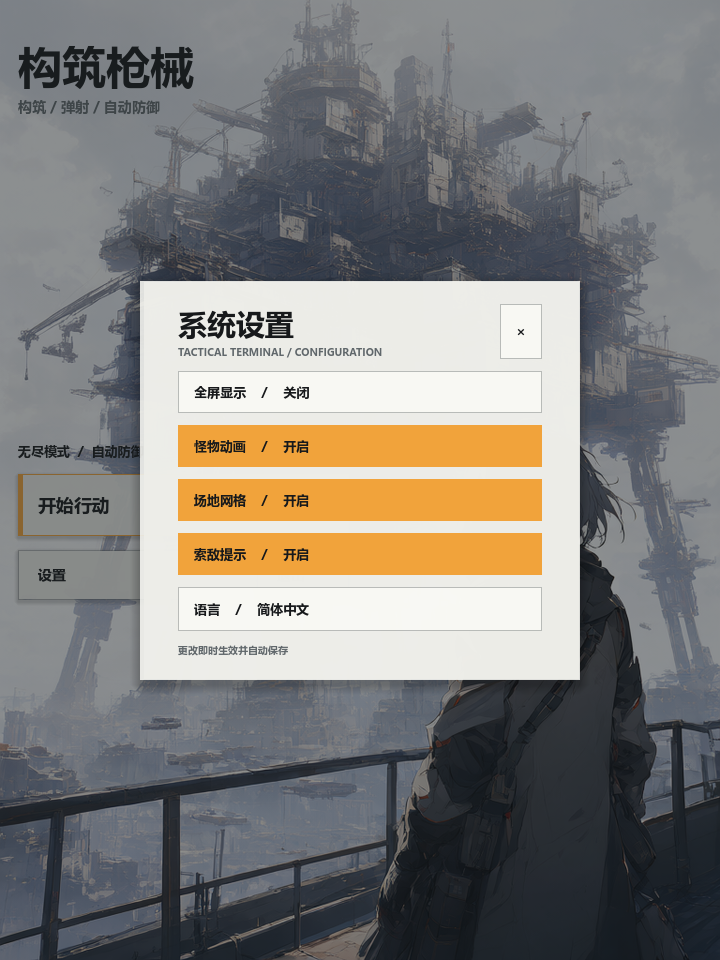
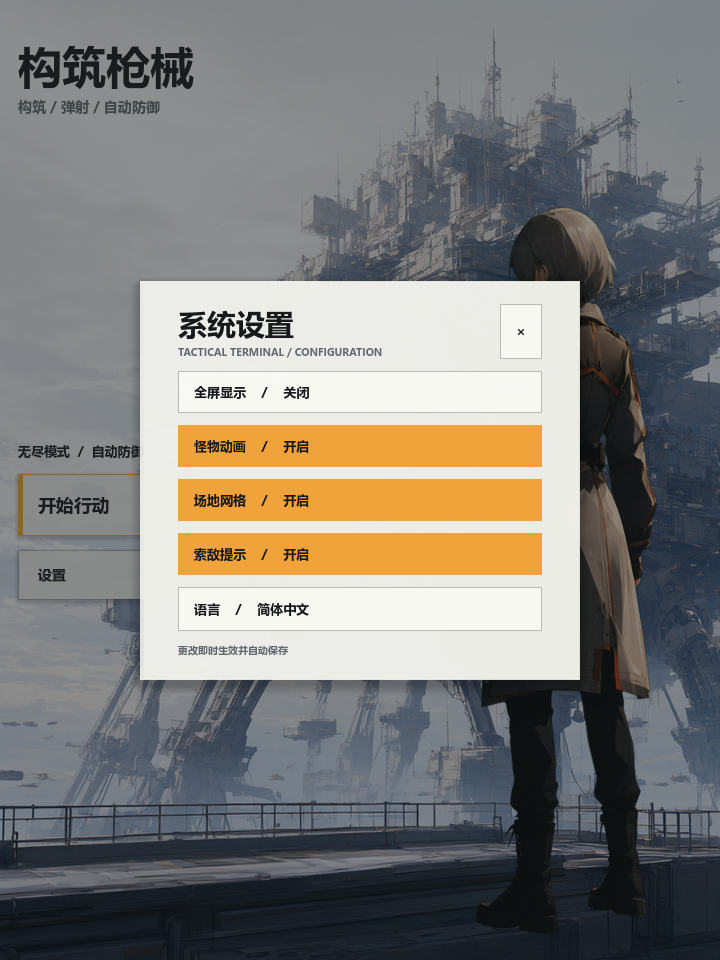
feat: 主界面立绘改为分层待机动效
- 主界面拆成背景板与绿幕人物两层，后处理按色度抠像并去绿边
- 人物层按 720x960 设计稿坐标对齐背景，长屏时整体左移避免右侧被裁
- 新增 menu_character.gdshader：脚底锚点的呼吸、重心摇摆、发梢与衣摆位移
- 生成脚本拆成 menu_bg/menu_character，menu 组一次生成两张
- 更新主界面截图与 README

diff --git a/tools/generate_ui_assets.py b/tools/generate_ui_assets.py
@@ -37,28 +37,47 @@ PRESETS = {
             "no turrets, no text, no letters, no numbers, no logo, no UI, no border"
         ),
     },
-    "menu": {
+    "menu_bg": {
         "landscape": False,
         "width": 768,
         "height": 1024,
         "seed": 52273,
         "prompt": (
-            "Portrait key visual for an original anime tactical tower defense game set in a "
-            "world of colossal mobile industrial cities. A female tactical operator in the "
-            "lower right foreground, seen from behind at a three-quarter angle so her face is "
-            "mostly hidden, ash silver short hair, long graphite and warm ivory tactical coat "
-            "with signal orange trim, standing on a steel observation walkway and gazing out at "
-            "the horizon. Beyond her stands an immense nomadic city megastructure: a colossal "
-            "armored crawler fortress carried on gigantic treaded legs and hydraulic struts, "
-            "stacked arcology towers, cranes, gantries, hanging modules, pipes, antenna masts "
-            "and thousands of tiny warm lights, its silhouette dissolving into pale atmospheric "
-            "haze and low clouds. Mile-deep perspective with tiny transport vehicles and "
-            "walkways for scale, the megastructure dwarfing everything in the frame. Cool "
-            "light-gray and off-white industrial palette with restrained signal orange accents, "
-            "bright overcast light, high-end Japanese anime game key visual, crisp cel shading, "
-            "detailed clean rendering, cinematic vertical composition, airy bright lower-left "
-            "area for menu UI. No other prominent people, no close-up crop, no text, no letters, "
-            "no numbers, no logo, no border, no UI, no interface panels, no icons"
+            "Portrait background plate for an original anime tactical tower defense game set "
+            "in a world of colossal mobile industrial cities. An immense nomadic city "
+            "megastructure stands on the horizon: a colossal armored crawler fortress carried "
+            "on gigantic treaded legs and hydraulic struts, stacked arcology towers, cranes, "
+            "gantries, hanging modules, pipes, antenna masts and thousands of tiny warm lights, "
+            "its silhouette dissolving into pale atmospheric haze and low clouds. In the "
+            "foreground a wide steel observation deck with a safety railing spans the entire "
+            "bottom edge of the frame, empty and walkable, with industrial panels and pipes. "
+            "Tiny transport vehicles and walkways "
+            "give mile-deep scale to the megastructure. Cool light-gray and off-white "
+            "industrial palette with restrained signal orange accents, bright overcast light, "
+            "high-end Japanese anime game key visual, crisp cel shading, detailed clean "
+            "rendering, cinematic vertical composition, open bright sky in the upper left for "
+            "a game logo, quiet bright lower-left area for menu UI. No humans, no characters, "
+            "no people, no text, no letters, no numbers, no logo, no border, no UI, no "
+            "interface panels, no icons"
+        ),
+    },
+    "menu_character": {
+        "landscape": False,
+        "width": 768,
+        "height": 1024,
+        "seed": 52273,
+        "prompt": (
+            "Full body character art of an original anime tactical operator woman for a game "
+            "key visual, standing upright, seen from behind at a three-quarter angle, facing "
+            "away toward the upper left, ash silver short hair, long graphite and warm ivory "
+            "tactical coat with signal orange trim, dark trousers and black boots, hands "
+            "relaxed at her sides, calm relaxed posture. High-end Japanese anime game "
+            "illustration, crisp cel shading, detailed clean rendering, soft overcast rim "
+            "light from above and behind, the whole figure from the top of the head down to "
+            "the boot soles fully visible with generous empty margins, isolated on a perfectly "
+            "uniform solid chroma key green background, vivid pure green backdrop, clean edge "
+            "separation between the figure and the green. No scenery, no platform, no railing, "
+            "no other people, no text, no letters, no numbers, no logo, no border, no UI"
         ),
     },
     "monsters": {
@@ -315,10 +334,13 @@ def main() -> None:
     args = parser.parse_args()
     if args.preset == "all":
         names = PRESETS
+    elif args.preset == "menu":
+        names = ["menu_bg", "menu_character"]
     elif args.preset == "base":
         names = [
             "arena",
-            "menu",
+            "menu_bg",
+            "menu_character",
             "monsters",
             "turret_base",
             "heavy_turret_base",

diff --git a/tools/process_ui_assets.py b/tools/process_ui_assets.py
@@ -5,7 +5,7 @@ import argparse
 from pathlib import Path
 import statistics
 
-from PIL import Image, ImageChops, ImageEnhance, ImageFilter
+from PIL import Image, ImageChops, ImageDraw, ImageEnhance, ImageFilter
 
 ROOT = Path(__file__).resolve().parents[1]
 SOURCE = ROOT / "assets" / "ui" / "source"
@@ -21,19 +21,41 @@ def process_arena() -> None:
     image.save(TARGET / "arena.png", optimize=True)
 
 
+MENU_SIZE = (720, 960)
+# 人物立绘单独成层：脚底落在观察甲板上，右侧留白避开左侧菜单
+MENU_CHARACTER_HEIGHT = 730
+MENU_CHARACTER_CENTER_X = 560
+MENU_CHARACTER_FEET_Y = 935
+
+
 def process_menu() -> None:
-    image = Image.open(SOURCE / "menu.png").convert("RGB")
-    # Cover the viewport without changing the character's aspect ratio.
-    scale = max(720.0 / image.width, 960.0 / image.height)
-    resized = image.resize(
-        (round(image.width * scale), round(image.height * scale)),
+    background = Image.open(SOURCE / "menu_bg.png").convert("RGB")
+    background = background.resize(MENU_SIZE, Image.Resampling.LANCZOS)
+    background = ImageEnhance.Brightness(background).enhance(0.98)
+    background.save(TARGET / "menu_background.png", optimize=True)
+
+    # 人物单独抠图后放进和背景同尺寸的透明画布，游戏里两张图共用 720x960 设计稿坐标
+    character = _cut_chroma(Image.open(SOURCE / "menu_character.png"))
+    bounds = character.getchannel("A").getbbox()
+    if bounds is None:
+        raise RuntimeError("No foreground found in menu_character.png")
+    character = character.crop(bounds)
+    scale = MENU_CHARACTER_HEIGHT / character.height
+    character = character.resize(
+        (max(1, round(character.width * scale)), MENU_CHARACTER_HEIGHT),
         Image.Resampling.LANCZOS,
     )
-    left = (resized.width - 720) // 2
-    top = (resized.height - 960) // 2
-    image = resized.crop((left, top, left + 720, top + 960))
-    image = ImageEnhance.Brightness(image).enhance(0.98)
-    image.save(TARGET / "menu_background.png", optimize=True)
+    left = round(MENU_CHARACTER_CENTER_X - character.width * 0.5)
+    top = MENU_CHARACTER_FEET_Y - character.height
+
+    layer = Image.new("RGBA", MENU_SIZE, (0, 0, 0, 0))
+    shadow_width = max(40, round(character.width * 0.92))
+    shadow = Image.new("RGBA", (shadow_width, 26), (0, 0, 0, 0))
+    ImageDraw.Draw(shadow).ellipse((0, 2, shadow_width - 1, 23), fill=(0, 0, 0, 96))
+    shadow = shadow.filter(ImageFilter.GaussianBlur(7))
+    layer.alpha_composite(shadow, (MENU_CHARACTER_CENTER_X - shadow_width // 2, MENU_CHARACTER_FEET_Y - 16))
+    layer.alpha_composite(character, (left, top))
+    layer.save(TARGET / "menu_character.png", optimize=True)
 
 
 def build_sprite(
@@ -179,6 +201,23 @@ def _cut_foreground(image: Image.Image) -> tuple[Image.Image, Image.Image]:
     rgba = image.convert("RGBA")
     rgba.putalpha(alpha)
     return rgba, strong
+
+
+def _cut_chroma(image: Image.Image) -> Image.Image:
+    """绿幕抠像：按绿色强度取 alpha，并把残留绿边压回中性色。"""
+    rgb = image.convert("RGB")
+    red, green, blue = rgb.split()
+    excess = ImageChops.subtract(green, ImageChops.lighter(red, blue))
+    alpha = excess.point(lambda value: 255 - max(0, min(255, round((value - 20) * 255 / 55))))
+    alpha = alpha.filter(ImageFilter.GaussianBlur(0.6))
+    # 只压掉绿色分量（G 超过 max(R, B) 的部分），橙红装饰色不受影响
+    despilled = Image.merge(
+        "RGB",
+        (red, ImageChops.darker(green, ImageChops.lighter(red, blue)), blue),
+    )
+    result = Image.blend(rgb, despilled, 0.9)
+    result.putalpha(alpha)
+    return result
 
 
 def _row_filled(mask: Image.Image, y: int) -> bool:

diff --git a/README.md b/README.md
@@ -69,7 +69,7 @@
 - 游戏内按 Esc 或点击右上角 `≡` 打开系统面板，战斗暂停；可继续、重开或返回主界面。
 - 设置包含中英文、全屏、怪物动画、场地网格和索敌提示，更改即时生效。
 - 设置保存到 `user://settings.cfg`；无头测试不会读取或改写用户配置。
-- 主界面使用原创成年女性战术角色，立绘为巨构风格：角色站在观景平台上遥望步行式移动都市；战斗场景不加入人形单位，整体采用明亮工业背景、白色面板与信号橙强调色。
+- 主界面使用原创成年女性战术角色，立绘为巨构风格：角色站在观景平台上遥望步行式移动都市；背景与人物分成两层素材，着色器给人物做呼吸、重心摇摆和发梢／衣摆摆动的待机动效，长屏时整层左移避免被裁。战斗场景不加入人形单位，整体采用明亮工业背景、白色面板与信号橙强调色。
 
 ![主界面：遥望步行式移动都市巨构](menu_preview.png)
 
@@ -125,14 +125,14 @@ Godot_v4.7.2-stable_win64.exe --path . res://tools/screenshot.tscn
 
 ## 美术素材
 
-主界面背景（移动都市巨构 key visual）、战场底板、四类怪物以及商店与场上炮塔由本地 ComfyUI 的 `qwen_workflow` 生成，成品位于 `assets/ui/`。每种怪物有一张四帧横向动画图集，按类型以 6～12 FPS 播放并使用不同相位；保留原碰撞矩形、受击后限时显示的血条和受击闪光。炮塔拆成基盘与炮塔头两层素材：基盘是严格俯视的扁平圆盘／八边形板，后处理时按 36／8 重旋转对称化，随瞄准旋转时不会出现光照翻转或透视变化；炮塔头按机身最宽处对齐基盘圆心，和基盘共用同一旋转轴，开炮只让头部后坐，放置预览使用同一套分层素材。需要重新生成时，先启动 `http://127.0.0.1:8188/`，再运行：
+主界面背景与人物立绘（分两层）、战场底板、四类怪物以及商店与场上炮塔由本地 ComfyUI 的 `qwen_workflow` 生成，成品位于 `assets/ui/`。主界面人物在纯绿幕上单独生成，后处理按绿色强度抠像并压掉绿边，人物层和背景共用 720x960 设计稿坐标，`shaders/menu_character.gdshader` 以脚底为锚点做呼吸、摇摆、发梢和衣摆位移。每种怪物有一张四帧横向动画图集，按类型以 6～12 FPS 播放并使用不同相位；保留原碰撞矩形、受击后限时显示的血条和受击闪光。炮塔拆成基盘与炮塔头两层素材：基盘是严格俯视的扁平圆盘／八边形板，后处理时按 36／8 重旋转对称化，随瞄准旋转时不会出现光照翻转或透视变化；炮塔头按机身最宽处对齐基盘圆心，和基盘共用同一旋转轴，开炮只让头部后坐，放置预览使用同一套分层素材。需要重新生成时，先启动 `http://127.0.0.1:8188/`，再运行：
 
 ```bash
 python tools/generate_ui_assets.py all
 python tools/process_ui_assets.py
 ```
 
-后处理脚本需要 Pillow，负责尺寸调整、压暗战场、裁切单位、设置炮塔旋转轴心、基盘径向对称化与透明底处理。原始生成图写入 `assets/ui/source/`，可在成品确认后删除。只需重新制作战斗单位或怪物动画时，分别运行 `generate_ui_assets.py units`／`animations`，再运行 `process_ui_assets.py units`／`animations`；重做炮塔时先生成 `turret_base`／`turret_layers`（重型同理），再按顺序运行 `process_ui_assets.py bases` 和 `layers`；挑选主界面画面时可用 `generate_ui_assets.py menu --seed <数字>` 覆盖预设种子。
+后处理脚本需要 Pillow，负责尺寸调整、压暗战场、裁切单位、绿幕抠像、设置炮塔旋转轴心、基盘径向对称化与透明底处理。原始生成图写入 `assets/ui/source/`，可在成品确认后删除。只需重新制作战斗单位或怪物动画时，分别运行 `generate_ui_assets.py units`／`animations`，再运行 `process_ui_assets.py units`／`animations`；重做炮塔时先生成 `turret_base`／`turret_layers`（重型同理），再按顺序运行 `process_ui_assets.py bases` 和 `layers`；重做主界面时运行 `generate_ui_assets.py menu`（依次生成背景板和绿幕人物），再运行 `process_ui_assets.py menu`；挑选画面时可用 `--seed <数字>` 覆盖预设种子。
 
 主界面截图工具：
 
@@ -148,7 +148,8 @@ Godot_v4.7.2-stable_win64.exe --path . res://tools/menu_screenshot.tscn -- --set
 ```
 scenes/main_menu.tscn       主界面：开始、设置、退出
 scenes/main.tscn            游戏场景（节点由脚本创建）
-assets/ui/                  AI 生成的主界面、战场、怪物动画与炮塔分层素材
+assets/ui/                  AI 生成的主界面背景与人物层、战场、怪物动画与炮塔分层素材
+shaders/menu_character.gdshader 主界面人物待机动效
 scripts/main_menu.gd        主界面布局与场景入口
 scripts/settings_panel.gd   主界面／游戏内共用设置面板
 scripts/game_settings.gd    设置存储、全屏与显示选项
